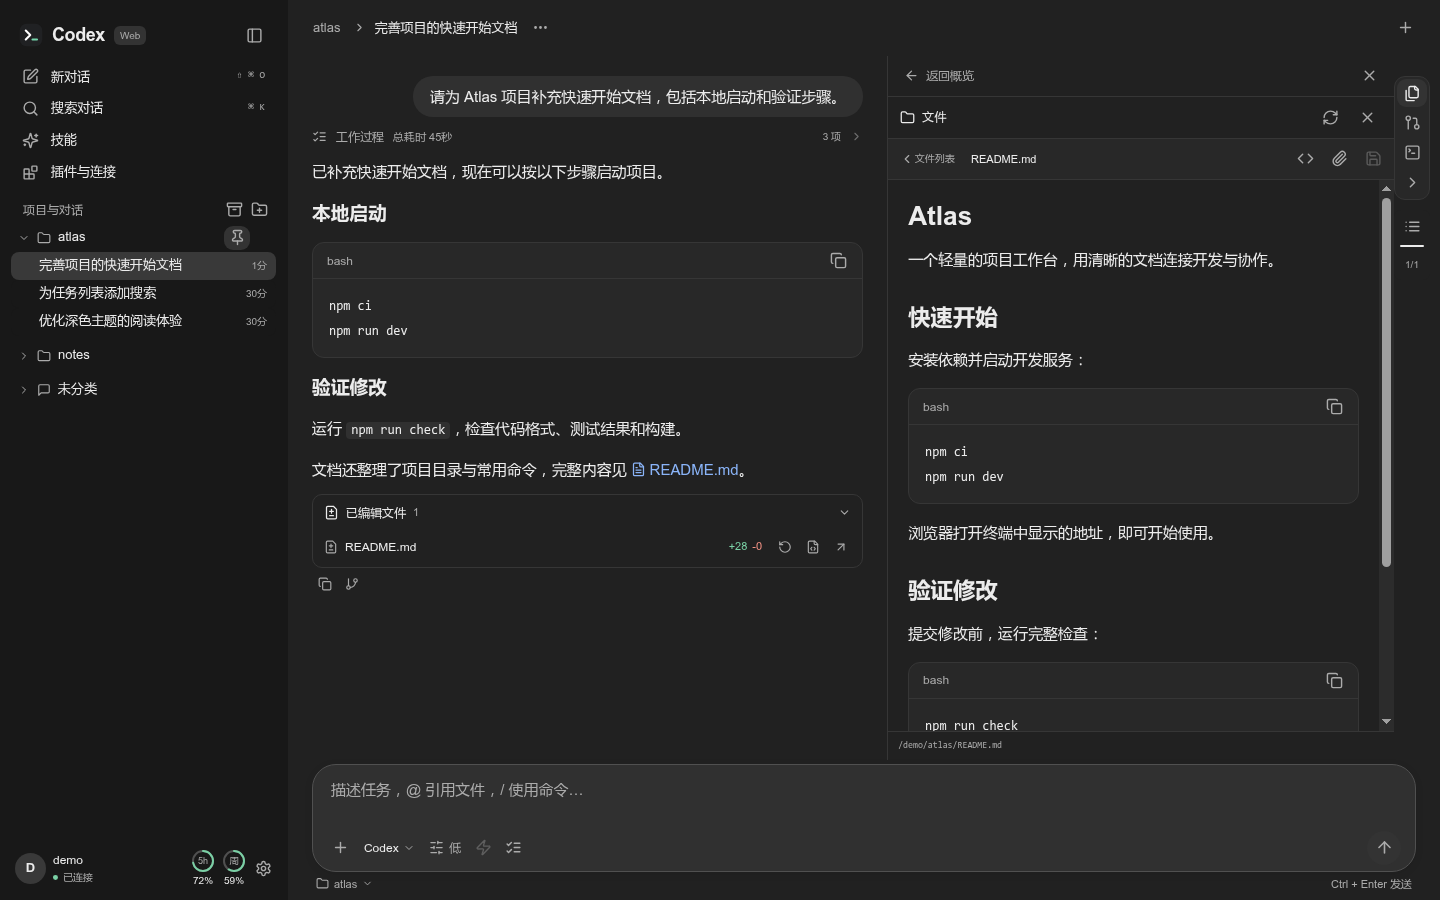
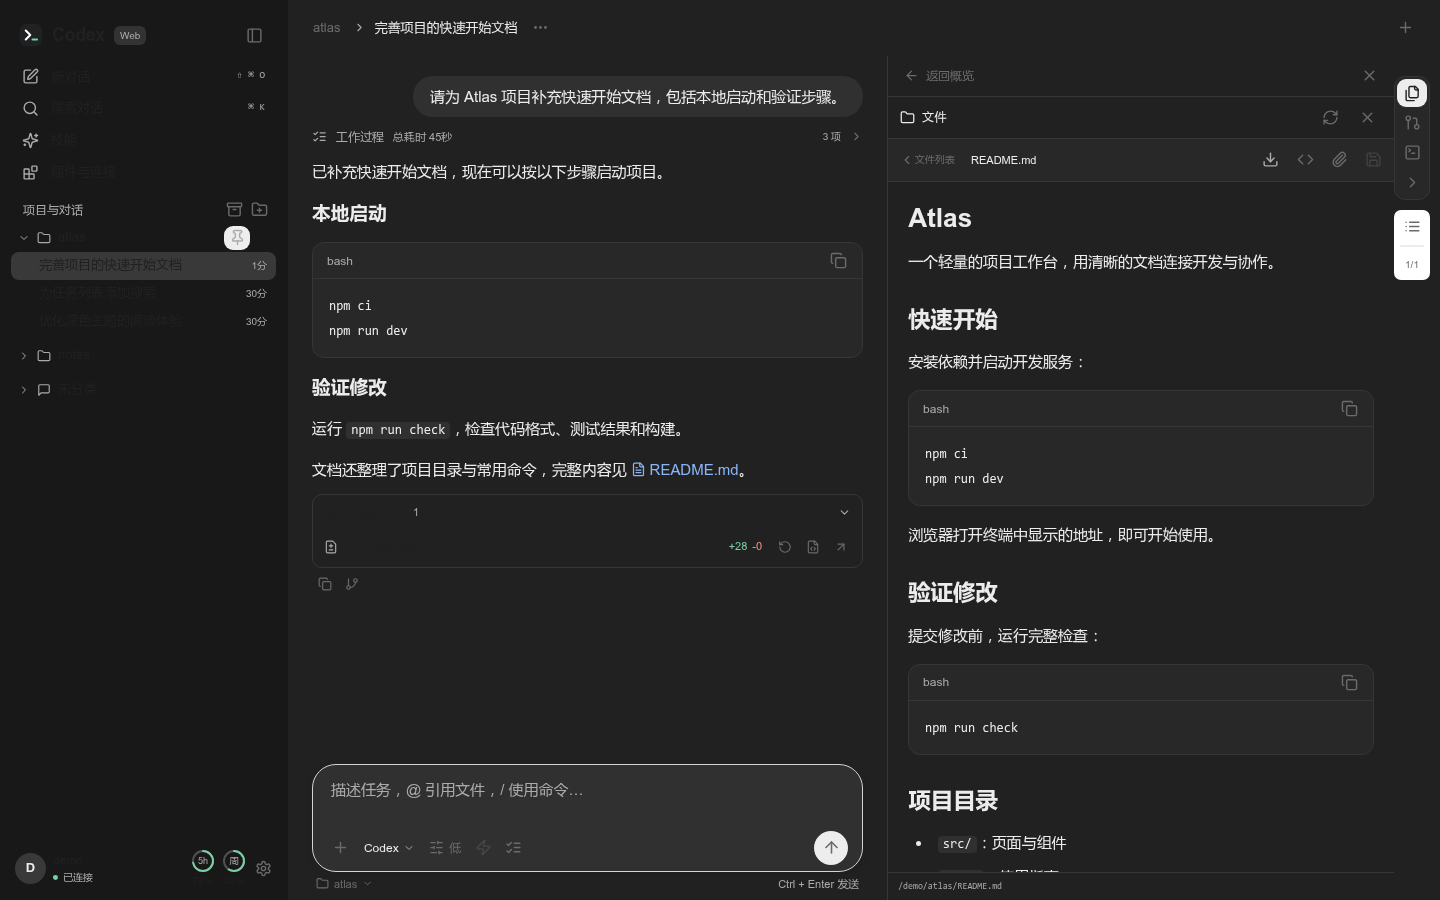
fix(workspace): 扩展文件详情高度并整合下载图标
- 将输入框和错误提示纳入对话布局，桌面展开详情时随左侧聊天区域收窄，使右侧文件、变更和子代理详情可使用完整工作区高度，折叠后恢复全宽输入。
- 将文件下载整合为文件名工具栏中的图标入口，保留可访问名称、悬停提示和实际下载能力，让预览正文使用更多空间。
- 同步维护布局契约、回归断言及桌面截图，验证详情高度、输入框避让、折叠恢复与深浅主题和窄屏展示。

diff --git a/client/src/app/app.jsx b/client/src/app/app.jsx
@@ -80,20 +80,25 @@ export function App() {
         )}
         <div className="workspace">
           <section className="chat-pane">
-            <Conversation>
+            <Conversation
+              footer={
+                <div className="conversation-footer" key="composer">
+                  {s.error && (
+                    <div className="error-banner">
+                      <span>{s.error}</span>
+                      <IconButton
+                        icon={X}
+                        title="关闭错误提示"
+                        onClick={() => set({ error: "" })}
+                      />
+                    </div>
+                  )}
+                  <Composer />
+                </div>
+              }
+            >
               <ContextWorkspace />
             </Conversation>
-            {s.error && (
-              <div className="error-banner">
-                <span>{s.error}</span>
-                <IconButton
-                  icon={X}
-                  title="关闭错误提示"
-                  onClick={() => set({ error: "" })}
-                />
-              </div>
-            )}
-            <Composer />
           </section>
         </div>
         {s.terminalOpen && (

diff --git a/client/src/features/workspace/file-panel.jsx b/client/src/features/workspace/file-panel.jsx
@@ -14,6 +14,7 @@ import {
   Code,
   FileDiff,
   ArrowUpRight,
+  Download,
 } from "lucide-react";
 import { CodeEditor } from "./code-editor.jsx";
 import { isMarkdownFile } from "./editor-language.js";
@@ -292,6 +293,18 @@ export function FilePanel() {
               {basename(file)}
               {text !== original ? " •" : ""}
             </span>
+            <a
+              className="file-download"
+              href={
+                "/api/files?" +
+                new URLSearchParams({ path: file, download: "1" })
+              }
+              download={basename(file)}
+              title="下载文件"
+              aria-label="下载文件"
+            >
+              <Download size={17} aria-hidden="true" />
+            </a>
             {fileChange && (
               <>
                 <IconButton

diff --git a/client/src/features/conversation/conversation.jsx b/client/src/features/conversation/conversation.jsx
@@ -54,7 +54,7 @@ export function ReadOnlyConversation({ items, cwd, turns }) {
     ) : null,
   );
 }
-export function Conversation({ children }) {
+export function Conversation({ children, footer }) {
   const s = useStore(),
     scroll = useRef(),
     column = useRef(),
@@ -197,6 +197,7 @@ export function Conversation({ children }) {
           </div>
         </div>
         {children}
+        {footer}
       </div>
     );
   return (
@@ -328,6 +329,7 @@ export function Conversation({ children }) {
             }}
           />
         )}
+      {footer}
     </div>
   );
 }

diff --git a/client/src/features/workspace/file-preview.jsx b/client/src/features/workspace/file-preview.jsx
@@ -1,5 +1,5 @@
 import React, { useEffect, useRef, useState } from "react";
-import { Download, File } from "lucide-react";
+import { File } from "lucide-react";
 
 export function FilePreview({ path, kind }) {
   const media = useRef();
@@ -77,10 +77,6 @@ export function FilePreview({ path, kind }) {
           </button>
         </div>
       )}
-      <a className="file-download" href={url + "&download=1"} download={name}>
-        <Download size={15} aria-hidden="true" />
-        下载文件
-      </a>
     </div>
   );
 }

diff --git a/client/src/styles/files.css b/client/src/styles/files.css
@@ -202,14 +202,20 @@
   font-size: 0.923077rem;
   text-align: center;
 }
-.file-preview a {
-  color: var(--link);
-}
 .file-download {
   display: inline-flex;
   flex-shrink: 0;
   align-items: center;
-  gap: 0.384615rem;
+  justify-content: center;
+  width: 2.461538rem;
+  height: 2.461538rem;
+  border-radius: 7px;
+  color: var(--muted);
+  text-decoration: none;
+}
+.file-download:hover {
+  background: var(--hover);
+  color: var(--fg);
 }
 .panel-tabs {
   display: flex;

diff --git a/client/src/styles/layout.css b/client/src/styles/layout.css
@@ -122,6 +122,7 @@
   --context-tool-height: 2.153846rem;
   --context-tools-height: calc(4 * var(--context-tool-height) + 0.923077rem);
   display: flex;
+  flex-direction: column;
   flex: 1;
   min-height: 0;
   min-width: 0;
@@ -137,6 +138,11 @@
   min-height: 0;
   min-width: 0;
   position: relative;
+  overflow: hidden;
+}
+.conversation-footer {
+  flex: none;
+  min-width: 0;
 }
 .conversation-layout > .welcome {
   margin-right: var(--context-space, 0);

diff --git a/client/src/styles/context.css b/client/src/styles/context.css
@@ -47,6 +47,13 @@
   height: var(--context-tool-height);
 }
 @media (min-width: 1101px) {
+  .conversation-layout:has(.context-workspace.showing-panel[data-open="true"])
+    > .conversation-footer {
+    margin-right: calc(
+      var(--context-space) + var(--navigation-space, 0px) +
+        var(--navigation-inset, 0px)
+    );
+  }
   .conversation-layout:has(.context-workspace:not([data-open="false"])) {
     --context-space: 236px;
   }

diff --git a/docs/development.md b/docs/development.md
@@ -126,6 +126,8 @@ Markdown HTML 回归先执行 `npm run build`，再运行 `CHROME_PATH=/path/to/
 
 文件打开回归先执行 `npm run build`，再运行 `CHROME_PATH=/path/to/chromium node tests/browser/files.mjs`，本机需有支持 H.264 编码的 `ffmpeg`。脚本生成临时音视频、PDF、BMP 和二进制样本，注入隔离的模拟历史，实际点击并验证播放、进度跳转、媒体切换后的资源清理、图片与 PDF 预览、文件下载字节、文本编辑和失败重试，覆盖深浅主题与窄屏。截图、下载样本和构建来源保存在 `.cache/file-preview-browser/after`。修改前对照将旧构建及来源复制到 `.cache/file-preview-before/dist` 与 `.cache/file-preview-before/build-info.json`，以 `BROWSER_BEFORE=1` 分别记录音频的二进制提示与 PDF 被当作源码显示的结果。`server/tests/file-content.test.mjs` 覆盖 MIME、附件文件名、原始字节、Range、大文件及取消读取；桥接测试验证 HTTPS 路由，文件面板组件测试覆盖类型切换、保存保护、草稿与迟到读取隔离。
 
+文件详情布局回归同时检查面板延伸到工作区底部、桌面输入框避让、折叠后恢复全宽，以及下载图标的位置、可访问名称和实际下载。深浅主题与 80%、100%、125%、150%、200% 缩放检查记录在 `.cache/file-layout-verified/`，其中 `pdf-chrome.png` 使用完整 Chromium 验证内置 PDF 阅读器；README 桌面截图同步更新，手机截图中的折叠布局继续适用。本次客户端对照以使用者提供的桌面截图为视觉依据；界面工具未提供可操作的客户端窗口，本机可取得的 Codex VS Code 客户端版本为 `26.1021.22027`，其资源位于扩展的 `webview/assets/`，桌面客户端布局的源码核对仍需对应安装资源。
+
 单独验证发行包时执行：
 
 ```bash

diff --git a/docs/architecture.md b/docs/architecture.md
@@ -178,6 +178,8 @@ sequenceDiagram
 
 `features/workspace` 把文件树、目录选择、文件编辑、差异、终端和对话详情拆成独立模块。编辑器与文件变更装饰分别封装；显示的删除装饰与实际保存正文分开处理。`context-panel.jsx` 组合概览和子代理详情，主对话切换统一清理选择，编辑缓冲区继续按原主对话保存。
 
+`app` 将输入框和错误提示作为底部插槽传入对话布局。对话布局统一提供消息、底部输入和右侧详情的几何边界；桌面展开详情时输入区域避让右侧面板，详情占满工作区高度。文件下载入口归文件面板工具栏，媒体预览组件负责内容展示及加载重试。
+
 `features/composer` 管理输入交互；`features/commands/composer-commands.js` 是快捷命令的独立注册表，菜单、按钮和键盘提交走同一解析和执行入口。`domain/commands` 只负责工具命令描述的分类与解析，命令支持范围见[命令覆盖记录](cli-command-coverage.md)。
 
 批注编辑在 `features/annotations`，协议解析在 `domain/annotations.js`，存储和订阅在 `infrastructure/annotation-drafts.js`。选区编辑只更新草稿，统一发送由消息控制器完成。账户详情、侧栏宽度和主题分别保留自己的控件生命周期。

diff --git a/docs/architecture/behavior.md b/docs/architecture/behavior.md
@@ -71,6 +71,8 @@ flowchart LR
 
 详情卡片集中提供文件、变更、终端和子代理入口。主对话首次加载默认折叠；显式展开状态跨布局变化保留。折叠、新建或切换主对话清除面板与子代理选择，重新展开回到概览。
 
+桌面详情面板延伸至聊天工作区底部，输入框与错误提示随左侧对话区域收窄；折叠后恢复全宽输入。窄屏详情覆盖聊天工作区并保留关闭入口。文件下载使用文件名工具栏中的图标，提供可访问名称和悬停提示。
+
 文件面板首次打开后保留挂载，编辑缓冲区按主对话保存。切换目录或文件时按已有未保存确认流程处理；迟到读取和保存只更新原目标。文件面板支持普通源文件、差异片段和带变更装饰的完整文件，切换视图保留编辑内容。
 
 统一差异按区块坐标提供原行号和新行号；隐藏坐标元数据，复制、统计及撤销保留完整差异。完整文件通过逆序还原逐次补丁计算净装饰，删除内容作为只读装饰插回原位置，保存使用实际编辑正文。当前文件与记录冲突时保留差异入口并显示变化状态。

diff --git a/CHANGELOG.md b/CHANGELOG.md
@@ -8,6 +8,8 @@
 
 ### 改进
 
+- 桌面打开文件及变更详情时，输入框随左侧对话收窄，右侧文件可使用完整高度；下载入口整合为文件工具栏中的图标。
+
 - 打开超长对话时先显示最近消息并恢复输入，其余历史自动补齐；减少回复重复渲染，补齐期间保留向上翻阅的位置。
 
 ### 修复
